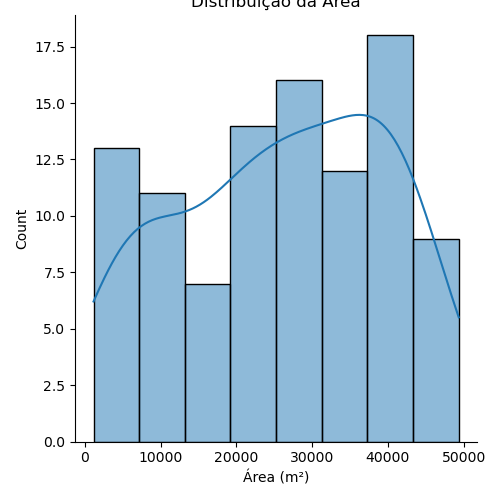
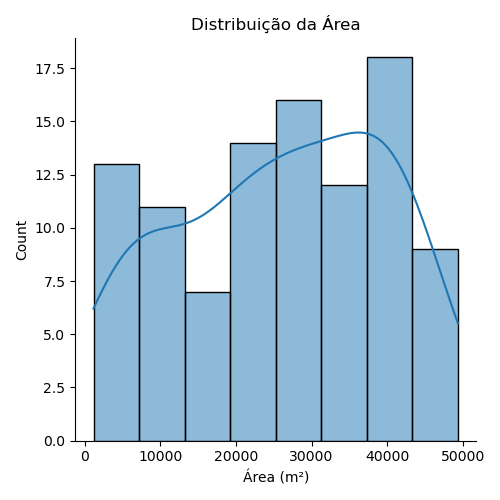
update README with normalization explanation and add distribution plots for area and energy consumption

diff --git a/linear_regression.py b/linear_regression.py
@@ -98,18 +98,20 @@ def denormalizer(x, y, coef_0, coef_1):
 # ******************************************************************************
 # is the data in a gaussian distribution?
 g = sns.displot(train_data['Square Footage'], kind='hist', kde=True)
-g.set_axis_labels("Área (m²)")
+g.set_axis_labels("Área (m²)", "Contagens")
 g.set(title="Distribuição da Área")
+plt.tight_layout()
 plt.savefig('plot_area_distribution.png')
 plt.show()
 
 g = sns.displot(train_data['Energy Consumption'], kind='hist', kde=True)
-g.set_axis_labels("Consumo de Energia (kW)") 
+g.set_axis_labels("Consumo de Energia (kW)", "Contagens") 
 g.set(title="Distribuição do Consumo de Energia")
+plt.tight_layout()
 plt.savefig('plot_energy_consumption_distribution.png')
 plt.show()
 
-# normalize the data first
+# normalize the data
 x_n = normalize_data(train_data['Square Footage'])
 y_n = normalize_data(train_data['Energy Consumption'])
 
@@ -123,6 +125,7 @@ coef0_denormalized, coef1_denormalized = denormalizer(x=train_data['Square Foota
 g = sns.displot(res, kind='hist', kde=True)
 g.set_axis_labels("Resíduo", "Densidade")
 g.set(title="Distribuição dos Resíduos")
+plt.tight_layout()
 plt.show()
 
 # ******************************************************************************

diff --git a/README.md b/README.md
@@ -53,11 +53,16 @@ train_data['Building Type'] = train_data['Building Type'].astype('string')
 train_data['Day of Week'] = train_data['Day of Week'].astype('string')
 ```
 
-Antes de aplicar a regressão linear aos dados, é necessário normalizá-los. Esse processo é essencial ao se utilizar modelos baseados em 
+Antes de aplicar a regressão linear aos dados, é necessário normalizá-los. Esse processo é essencial ao se utilizar modelos baseados em gradiente descendente como a Regressão Linear, pois aumenta a acurácia do modelo. A normalização transforma a escala dos dados de forma que todos os valores se encontrem em um intervalo de 0 a 1. Garantindo que o modelo utilizado não distorça a relação entre as variáveis, caso interprete que uma delas tem maior importância devido a uma escala maior, por exemplo.
 
-A normalização transforma a escala dos dados de forma que todos os valores se encontrem em um intervalo de 0 a 1. Ela é uma boa escolha principalmente quando a distribuição dos dados não é Gaussiana. 
+A normalização pode ser utilizada quando a distribuição dos dados não é Gaussiana e os dados usados possuem escalas distintas. A equação utilizada para normalizar os dados é a seguinte:
 
 $$ x_{normalizado} = \frac{x-x_{min}}{x_{max}-x_{min}} $$
+
+Nas figuras abaixo, mostro o histograma das duas variáveis de interesse deste estudo. Comparando o eixo $x$ de ambos os gráficos, é possível ver a diferença de escala entre a área e o consumo de energia.
+
+![Imagem 1](plot_area_distribution.png) ![Imagem 2](plot_energy_consumption_distribution.png)
+
 
 ## Apêndice A: Derivada Parcial da Função Custo
 
@@ -125,4 +130,6 @@ $$a_0=\left ( \frac{(y_{max}-y_{min})\cdot a_1'}{x_{max}-x_{min}} \right )x_{min
 * Kaggle | [Energy Consumption Dataset](https://www.kaggle.com/datasets/govindaramsriram/energy-consumption-dataset-linear-regression/data)
 * Medium | [Understanding the Cost Function in Linear Regression for Machine Learning Beginners](https://medium.com/@yennhi95zz/3-understanding-the-cost-function-in-linear-regression-for-machine-learning-beginners-ec9edeecbdde)
 * Stack Overflow | [Rescaling after feature scaling, linear regression](https://stackoverflow.com/questions/21168844/rescaling-after-feature-scaling-linear-regression?utm_source=chatgpt.com)
+* Geeks For Geeks | [When to normalize data in regression?](https://www.geeksforgeeks.org/machine-learning/when-to-normalize-data-in-regression/)
+* Medium | [A importância da normalização e padronização dos dados em Machine Learning](https://medium.com/ipnet-growth-partner/padronizacao-normalizacao-dados-machine-learning-f8f29246c12)
 
